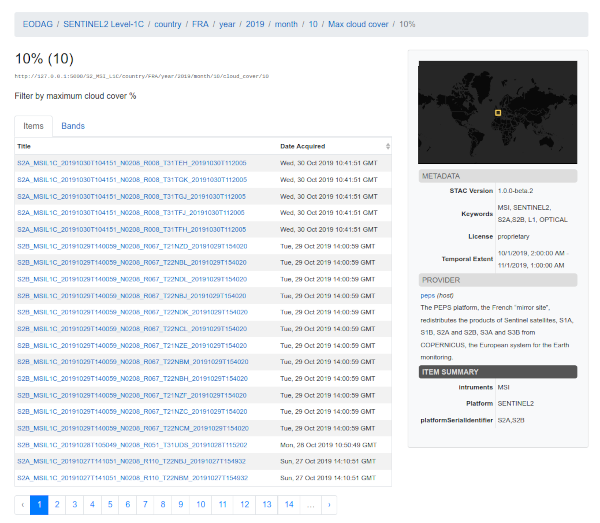
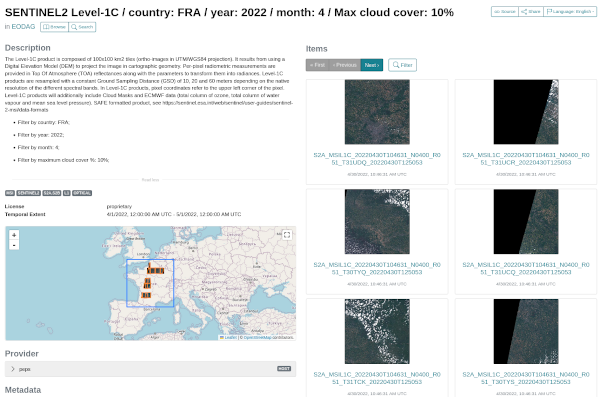
feat: better generated stac catalogs title & desc (#710)
* feat: better generated stac catalogs title & desc

* docs: update stac browser screenshot

diff --git a/eodag/rest/stac.py b/eodag/rest/stac.py
@@ -108,15 +108,6 @@ class StacCommon(object):
             self.data, lambda k, v: str(v) if k in ["title", "id"] else v
         )
 
-        # remove \n in descriptions
-        try:
-            self.data = dict_items_recursive_apply(
-                self.data,
-                lambda k, v: v.replace("\n", " ") if k == "description" else v,
-            )
-        except AttributeError as e:
-            logger.warning("Could not format description = %s" % e)
-
         # empty stac_extensions: "" to []
         if not self.data.get("stac_extensions", True):
             self.data["stac_extensions"] = []
@@ -700,6 +691,8 @@ class StacCatalog(StacCommon):
         format_args["catalog"] = defaultdict(
             str, dict(model, **{"root": self.root, "url": self.url})
         )
+        # use existing data as parent_catalog
+        format_args["parent_catalog"] = defaultdict(str, **self.data)
         parsed_model = format_dict_items(self.catalog_config["model"], **format_args)
 
         self.update_data(parsed_model)
